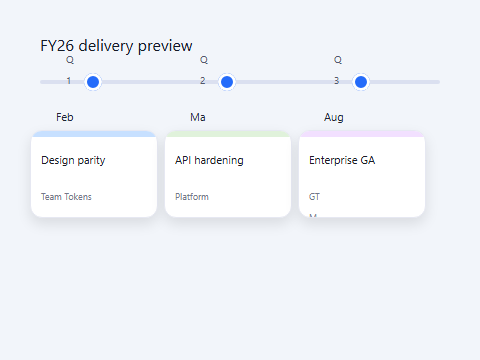
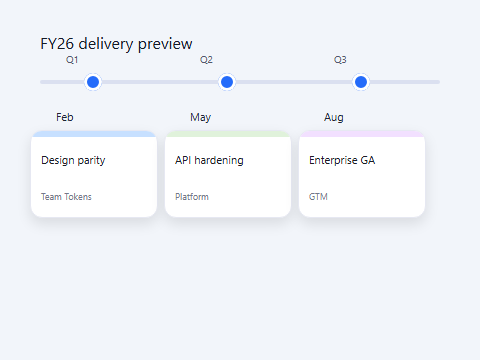
Fixes

diff --git a/libs/headless-figma-clone/src/engine/DocumentEngine.ts b/libs/headless-figma-clone/src/engine/DocumentEngine.ts
@@ -154,6 +154,53 @@ function parseTextOnPath(raw: unknown, label: string): TextNode['textOnPath'] {
   return { pathId, startOffset: raw.startOffset };
 }
 
+const TEXT_AUTO_RESIZE_VALUES = new Set(['NONE', 'WIDTH_AND_HEIGHT', 'HEIGHT', 'TRUNCATE']);
+const TEXT_TRUNCATION_VALUES = new Set(['DISABLED', 'ENDING']);
+
+function parseTextAutoResize(raw: unknown, label: string): TextNode['textAutoResize'] | undefined {
+  if (raw === undefined || raw === null) return undefined;
+  if (typeof raw !== 'string' || !TEXT_AUTO_RESIZE_VALUES.has(raw)) {
+    throw new ValidationErr('VALIDATION_ERROR', `${label} must be NONE, WIDTH_AND_HEIGHT, HEIGHT, or TRUNCATE`);
+  }
+  return raw as TextNode['textAutoResize'];
+}
+
+function parseTextTruncation(raw: unknown, label: string): TextNode['textTruncation'] | undefined {
+  if (raw === undefined || raw === null) return undefined;
+  if (typeof raw !== 'string' || !TEXT_TRUNCATION_VALUES.has(raw)) {
+    throw new ValidationErr('VALIDATION_ERROR', `${label} must be DISABLED or ENDING`);
+  }
+  return raw as TextNode['textTruncation'];
+}
+
+function parseMaxLines(raw: unknown, label: string): number | null | undefined {
+  if (raw === undefined) return undefined;
+  if (raw === null) return null;
+  if (typeof raw !== 'number' || !Number.isFinite(raw) || !Number.isInteger(raw) || raw < 1) {
+    throw new ValidationErr('VALIDATION_ERROR', `${label} must be a positive integer or null`);
+  }
+  return raw;
+}
+
+const TEXT_ALIGN_H_VALUES = new Set(['LEFT', 'CENTER', 'RIGHT', 'JUSTIFIED']);
+const TEXT_ALIGN_V_VALUES = new Set(['TOP', 'CENTER', 'BOTTOM']);
+
+function parseTextAlignHorizontal(raw: unknown, label: string): TextNode['textAlignHorizontal'] | undefined {
+  if (raw === undefined || raw === null) return undefined;
+  if (typeof raw !== 'string' || !TEXT_ALIGN_H_VALUES.has(raw)) {
+    throw new ValidationErr('VALIDATION_ERROR', `${label} must be LEFT, CENTER, RIGHT, or JUSTIFIED`);
+  }
+  return raw as TextNode['textAlignHorizontal'];
+}
+
+function parseTextAlignVertical(raw: unknown, label: string): TextNode['textAlignVertical'] | undefined {
+  if (raw === undefined || raw === null) return undefined;
+  if (typeof raw !== 'string' || !TEXT_ALIGN_V_VALUES.has(raw)) {
+    throw new ValidationErr('VALIDATION_ERROR', `${label} must be TOP, CENTER, or BOTTOM`);
+  }
+  return raw as TextNode['textAlignVertical'];
+}
+
 export function validateTransformModifiers(modifiers: unknown, label: string): TransformModifier[] {
   if (modifiers === undefined || modifiers === null) {
     throw new ValidationErr('VALIDATION_ERROR', `in ${label}: Property "modifiers" failed validation: Required value missing`);
@@ -572,6 +619,27 @@ function normalizeNewText(spec: Extract<NewNodeSpec, { type: 'TEXT' }>, id: stri
     textStyleId: spec.textStyleId,
     textOnPath,
   };
+  if (spec.textAutoResize !== undefined) {
+    const ar = parseTextAutoResize(spec.textAutoResize, 'TEXT.textAutoResize');
+    if (ar !== undefined) text.textAutoResize = ar;
+  }
+  if (spec.textTruncation !== undefined) {
+    const tr = parseTextTruncation(spec.textTruncation, 'TEXT.textTruncation');
+    if (tr !== undefined) text.textTruncation = tr;
+  }
+  if ('maxLines' in spec) {
+    const ml = parseMaxLines(spec.maxLines, 'TEXT.maxLines');
+    if (ml === undefined) delete text.maxLines;
+    else text.maxLines = ml;
+  }
+  if (spec.textAlignHorizontal !== undefined) {
+    const ha = parseTextAlignHorizontal(spec.textAlignHorizontal, 'TEXT.textAlignHorizontal');
+    if (ha !== undefined) text.textAlignHorizontal = ha;
+  }
+  if (spec.textAlignVertical !== undefined) {
+    const va = parseTextAlignVertical(spec.textAlignVertical, 'TEXT.textAlignVertical');
+    if (va !== undefined) text.textAlignVertical = va;
+  }
   validateTextGeometry(text);
   if (text.fills) text.fills = validatePaintArray(text.fills, 'fills', env) ?? [];
   if (text.effects) text.effects = validateEffects(text.effects, 'effects') ?? [];
@@ -2399,6 +2467,31 @@ function applyPatch(env: FileEnvelope, node: AnyTreeNode, patch: Record<string, 
       } else {
         t.textOnPath = parseTextOnPath(top, 'textOnPath');
       }
+    }
+    if ('textAutoResize' in patch) {
+      const ar = patch.textAutoResize;
+      if (ar === undefined || ar === null) delete t.textAutoResize;
+      else t.textAutoResize = parseTextAutoResize(ar, 'textAutoResize');
+    }
+    if ('textTruncation' in patch) {
+      const tr = patch.textTruncation;
+      if (tr === undefined || tr === null) delete t.textTruncation;
+      else t.textTruncation = parseTextTruncation(tr, 'textTruncation');
+    }
+    if ('maxLines' in patch) {
+      const ml = parseMaxLines(patch.maxLines, 'maxLines');
+      if (ml === undefined) delete t.maxLines;
+      else t.maxLines = ml;
+    }
+    if ('textAlignHorizontal' in patch) {
+      const ha = patch.textAlignHorizontal;
+      if (ha === undefined || ha === null) delete t.textAlignHorizontal;
+      else t.textAlignHorizontal = parseTextAlignHorizontal(ha, 'textAlignHorizontal');
+    }
+    if ('textAlignVertical' in patch) {
+      const va = patch.textAlignVertical;
+      if (va === undefined || va === null) delete t.textAlignVertical;
+      else t.textAlignVertical = parseTextAlignVertical(va, 'textAlignVertical');
     }
     if ('boundVariables' in patch) {
       const bv = parseBoundVariablesPatch(env, patch.boundVariables, TEXT_BIND_FIELDS, 'TEXT');

diff --git a/libs/headless-figma-clone/src/render/DesignCompiler.ts b/libs/headless-figma-clone/src/render/DesignCompiler.ts
@@ -1,5 +1,6 @@
 import {
   applyAutoLayoutIntrinsicSizingDeep,
+  hugTextLineHeightPx,
   syncHugTextLayoutMetricsDeep,
 } from './autoLayoutIntrinsicSizing.js';
 import {
@@ -232,6 +233,58 @@ function effectiveTextBase(t: TextNode, env: FileEnvelope): { fontSize: number; 
   }
   const fontSizeCss = boundFloatCss(env, t.boundVariables?.fontSize, fontSize);
   return { fontSize, fontWeight, fills, fontSizeCss };
+}
+
+/** Map Figma `textAlignVertical` / `textAlignHorizontal` to a column flex box (defaults TOP + LEFT match Figma). */
+function textFlexContainerCss(t: TextNode, ellip: boolean): string {
+  const v = t.textAlignVertical ?? 'TOP';
+  const h = t.textAlignHorizontal ?? 'LEFT';
+  const jc = v === 'CENTER' ? 'center' : v === 'BOTTOM' ? 'flex-end' : 'flex-start';
+  let ai: string;
+  if (ellip) ai = 'stretch';
+  else if (h === 'CENTER') ai = 'center';
+  else if (h === 'RIGHT') ai = 'flex-end';
+  else if (h === 'JUSTIFIED') ai = 'stretch';
+  else ai = 'flex-start';
+  return `display:flex;flex-direction:column;justify-content:${jc};align-items:${ai};min-height:0;`;
+}
+
+function textInnerHorizontalCss(t: TextNode): string {
+  const h = t.textAlignHorizontal ?? 'LEFT';
+  if (h === 'CENTER') return 'text-align:center;';
+  if (h === 'RIGHT') return 'text-align:right;';
+  if (h === 'JUSTIFIED') return 'text-align:justify;';
+  return 'text-align:left;';
+}
+
+/** Figma: fixed width + `HEIGHT` auto-resize grows vertically (wrap); single-line box height truncates horizontally. */
+function textUsesSingleLineEllipsis(t: TextNode, env: FileEnvelope): boolean {
+  if (t.textOnPath) return false;
+  if (t.characters.includes('\n')) return false;
+  if (t.textTruncation === 'DISABLED') return false;
+  if (t.textAutoResize === 'HEIGHT') return false;
+  if (t.textTruncation === 'ENDING' && t.maxLines != null && t.maxLines > 1) return false;
+  if (t.textAutoResize === 'TRUNCATE') return true;
+  if (t.textTruncation === 'ENDING' && t.maxLines === 1) return true;
+  const fs = effectiveTextBase(t, env).fontSize;
+  const cap = Math.ceil(hugTextLineHeightPx(fs) * 1.14);
+  if (!(t.height > 0 && t.height <= cap)) return false;
+  /**
+   * Implicit single-line ellipsis is for short UI labels (constrained flex titles). Long one-line copy
+   * (chart axis labels, spaced columns, etc.) must stay `pre-wrap` or most of the string disappears.
+   */
+  const chars = effectiveTextCharacters(t, env);
+  if (chars.length > 48) return false;
+  /** Captions / axis labels use smaller type; implicit ellipsis + overflow clips descenders in stacked rows. */
+  if (fs < 12) return false;
+  return true;
+}
+
+function textFlowCss(t: TextNode, env: FileEnvelope): string {
+  if (textUsesSingleLineEllipsis(t, env)) {
+    return 'white-space:nowrap;overflow:hidden;text-overflow:ellipsis;word-break:normal;overflow-wrap:normal;';
+  }
+  return 'white-space:pre-wrap;word-break:break-word;';
 }
 
 function effectiveTextCharacters(t: TextNode, env: FileEnvelope): string {
@@ -1178,11 +1231,15 @@ function emitScene(
     const pos = insideFlex
       ? sceneChildPos(t, insideFlex, absX, absY, parentFrame)
       : `position:absolute;left:${String(absX)}px;top:${String(absY)}px;width:${String(t.width)}px;height:${String(t.height)}px;`;
-    const flexTextMetrics = insideFlex ? 'line-height:1;' : '';
+    const ellip = textUsesSingleLineEllipsis(t, env);
+    const flexOuterAlign = textFlexContainerCss(t, ellip);
+    const flexTextMetrics = ellip ? 'line-height:1.15;' : 'line-height:normal;';
+    const innerRule = `${textInnerHorizontalCss(t)}${ellip ? 'min-width:0;width:100%;display:block;' : ''}`;
     htmlParts.push(`<div class="hfc-node-${t.id}" data-hfc-id="${t.id}" style="z-index:${String(zIndex)}">`);
     cssParts.push(
-      `.hfc-node-${t.id}{${pos}box-sizing:border-box;white-space:pre-wrap;word-break:break-word;${flexTextMetrics}${fontFamilyCss(t.fontName)}${opRot}${shadow}}`
+      `.hfc-node-${t.id}{${pos}box-sizing:border-box;${flexOuterAlign}${textFlowCss(t, env)}${flexTextMetrics}${fontFamilyCss(t.fontName)}${opRot}${shadow}}`
     );
+    cssParts.push(`.hfc-node-${t.id} .hfc-text-inner{${innerRule}}`);
     htmlParts.push(`<div class="hfc-text-inner">${emitTextInnerHtml(t, env, warnings)}</div></div>`);
     return;
   }

diff --git a/libs/headless-figma-clone/src/render/autoLayoutIntrinsicSizing.ts b/libs/headless-figma-clone/src/render/autoLayoutIntrinsicSizing.ts
@@ -13,7 +13,13 @@ import { resolveVariableToFloat, resolveVariableToStringValue } from '../variabl
 const FIGMA_DEFAULT_FRAME_MIN_SIDE = 100;
 
 /** Loose Inter-like advance estimate for Latin UI text (0.52 was too tight vs browser line metrics → false wraps). */
-const TEXT_WIDTH_CHAR_FACTOR = 0.58;
+const TEXT_WIDTH_CHAR_FACTOR = 0.62;
+
+/** Small horizontal slack so hugging TEXT boxes stay ≥ typical browser line width (avoids pre-wrap false wraps). */
+function approximateTextWidthPx(chars: string, fontSize: number): number {
+  const raw = chars.length * fontSize * TEXT_WIDTH_CHAR_FACTOR;
+  return Math.max(0, Math.ceil(raw) + Math.ceil(fontSize * 0.35));
+}
 
 /** Match {@link DesignCompiler} `effectiveTextBase` font-size resolution for intrinsic width/height. */
 function effectiveTextFontSizePx(t: TextNode, env: FileEnvelope | undefined): number {
@@ -27,11 +33,6 @@ function effectiveTextFontSizePx(t: TextNode, env: FileEnvelope | undefined): nu
     if (st?.fontSize !== undefined) fontSize = st.fontSize;
   }
   return fontSize;
-}
-
-function approximateTextWidthPx(chars: string, fontSize: number): number {
-  const raw = chars.length * fontSize * TEXT_WIDTH_CHAR_FACTOR;
-  return Math.max(0, Math.ceil(raw));
 }
 
 export function textCharactersForIntrinsicSizing(t: TextNode, env: FileEnvelope | undefined): string {
@@ -57,18 +58,23 @@ function textIntrinsicWidthForAutoLayout(t: TextNode, env: FileEnvelope | undefi
   return approximateTextWidthPx(textCharactersForIntrinsicSizing(t, env), fs);
 }
 
+/** One-line text box height for layout + CSS (extra px for descenders vs browser metrics). */
+export function hugTextLineHeightPx(fontSize: number): number {
+  return Math.max(0, Math.ceil(fontSize * 1.22) + 2);
+}
+
 function textIntrinsicHeightForAutoLayout(t: TextNode, env: FileEnvelope | undefined): number {
   const fs = effectiveTextFontSizePx(t, env);
   if (t.layoutSizingVertical === 'FIXED') {
     return Math.max(0, t.height);
   }
   if (t.layoutSizingVertical === 'HUG' || t.layoutSizingVertical === 'FILL') {
-    return Math.max(0, fs);
+    return hugTextLineHeightPx(fs);
   }
   if (typeof t.height === 'number' && t.height > 0) {
     return Math.max(0, t.height);
   }
-  return Math.max(0, fs);
+  return hugTextLineHeightPx(fs);
 }
 
 function padX(f: FrameNode): number {
@@ -298,7 +304,8 @@ export function syncHugTextLayoutMetricsDeep(n: SceneNode, env?: FileEnvelope): 
     t.width = approximateTextWidthPx(textCharactersForIntrinsicSizing(t, env), fs);
   }
   if (needsIntrinsicH) {
-    t.height = Math.max(0, effectiveTextFontSizePx(t, env));
+    const fs = effectiveTextFontSizePx(t, env);
+    t.height = hugTextLineHeightPx(fs);
   }
 }
 

diff --git a/libs/headless-figma-clone/tests/compiler/scenario-102-analytics-foot-visible.test.ts b/libs/headless-figma-clone/tests/compiler/scenario-102-analytics-foot-visible.test.ts
@@ -1,0 +1,39 @@
+import { readFileSync } from 'node:fs';
+import { dirname, join } from 'node:path';
+import { fileURLToPath } from 'node:url';
+import { describe, expect, it } from 'vitest';
+import { applyEngineOp, DocumentEngine } from '../../src/engine/DocumentEngine.js';
+import { runUseFigmaScript } from '../../src/mcp/useFigmaScript.js';
+import { JsonPersistence } from '../../src/persistence/JsonPersistence.js';
+import { designCompiler } from '../../src/render/DesignCompiler.js';
+import { createConsoleLogger } from '../../src/util/logger.js';
+
+const scenariosDir = join(dirname(fileURLToPath(import.meta.url)), '../../verification/scenarios');
+
+describe('scenario 102 analytics KPI strip', () => {
+  it('compiled HTML includes weekday axis copy (long single-line must not use implicit ellipsis)', async () => {
+    const engine = new DocumentEngine({
+      persistence: new JsonPersistence(),
+      logger: createConsoleLogger('error'),
+    });
+    await engine.createEmptyFile({ fileName: 'T' });
+    const code = readFileSync(join(scenariosDir, '102-analytics-kpi-strip/script.js'), 'utf8');
+    const run = await runUseFigmaScript(code, engine);
+    expect(run.kind).toBe('ok');
+    if (run.kind !== 'ok') return;
+
+    const env = structuredClone(engine.getActiveFile()!);
+    for (const op of run.operations) applyEngineOp(env, op);
+
+    const rootId = (run.result as { rootId: string }).rootId;
+    const out = designCompiler.compileSubtree({
+      envelope: env,
+      rootNodeId: rootId,
+      options: { viewportPaddingPx: 0, includeCss: true, inlineCss: true },
+    });
+
+    expect(out.html).toContain('Mon');
+    expect(out.html).toContain('Sun');
+    expect(out.html).toContain('Engagement Index');
+  });
+});

diff --git a/libs/headless-figma-clone/src/model/types.ts b/libs/headless-figma-clone/src/model/types.ts
@@ -341,6 +341,25 @@ export interface TextNode extends NodeBase, LayoutSelfFields {
    * @see Figma Plugin API — `TextNode.textOnPath`.
    */
   textOnPath?: { pathId: string; startOffset?: number };
+  /**
+   * Figma `TextNode.textAutoResize`. `HEIGHT` = fixed width, grow vertically (wrap); `TRUNCATE` is legacy.
+   * @see Figma Plugin API — `TextNode.textAutoResize`.
+   */
+  textAutoResize?: 'NONE' | 'WIDTH_AND_HEIGHT' | 'HEIGHT' | 'TRUNCATE';
+  /** When `ENDING`, overflowing text uses an ellipsis (see `maxLines`). */
+  textTruncation?: 'DISABLED' | 'ENDING';
+  /** Only applies with `textTruncation: 'ENDING'`. */
+  maxLines?: number | null;
+  /**
+   * Figma `TextNode.textAlignHorizontal`. Omitted = Figma default `LEFT`.
+   * @see Figma Plugin API — `TextNode.textAlignHorizontal`.
+   */
+  textAlignHorizontal?: 'LEFT' | 'CENTER' | 'RIGHT' | 'JUSTIFIED';
+  /**
+   * Figma `TextNode.textAlignVertical`. Omitted = Figma default `TOP`.
+   * @see Figma Plugin API — `TextNode.textAlignVertical`.
+   */
+  textAlignVertical?: 'TOP' | 'CENTER' | 'BOTTOM';
   /** Phase 8 — `fontSize` → FLOAT variable; `characters` → STRING variable. */
   boundVariables?: TextVariableBindings;
 }

diff --git a/libs/headless-figma-clone/tests/compiler/scenario-48-nav-bar.test.ts b/libs/headless-figma-clone/tests/compiler/scenario-48-nav-bar.test.ts
@@ -55,7 +55,7 @@ describe('scenario 48 nav bar composite compile', () => {
       expect(bundle).toContain(`hfc-node-${links.id}`);
       expect(bundle).toMatch(new RegExp(`\\.hfc-node-${links.id}\\{[^}]*flex:0 0 auto`));
       expect(bundle).toMatch(new RegExp(`\\.hfc-node-${links.id}\\{[^}]*height:auto`));
-      expect(bundle).toMatch(new RegExp(`\\.hfc-node-${links.id}\\{[^}]*line-height:1`));
+      expect(bundle).toMatch(new RegExp(`\\.hfc-node-${links.id}\\{[^}]*line-height:(normal|1|1\\.15);`));
       expect(bundle).not.toMatch(new RegExp(`\\.hfc-node-${links.id}\\{[^}]*flex:1 1`));
       expect(bundle).not.toMatch(new RegExp(`\\.hfc-node-${links.id}\\{[^}]*width:200px`));
     } finally {

diff --git a/libs/headless-figma-clone/tests/mcp/scenario-44-component-instance.compile.test.ts b/libs/headless-figma-clone/tests/mcp/scenario-44-component-instance.compile.test.ts
@@ -49,7 +49,8 @@ describe('scenario 44 component instance compile', () => {
     const close = out.html.indexOf('}', open);
     const rule = out.html.slice(open, close + 1);
     expect(rule).toMatch(/width:([1-9][0-9]+)px/);
-    expect(rule).toMatch(/height:14px/);
+    /** Hugging TEXT height uses hugTextLineHeightPx (14px label → 20px with descender slack). */
+    expect(rule).toMatch(/height:20px/);
     expect(rule).not.toContain('width:0px');
   });
 });

diff --git a/libs/headless-figma-clone/verification/scenarios/102-analytics-kpi-strip/script.js b/libs/headless-figma-clone/verification/scenarios/102-analytics-kpi-strip/script.js
@@ -99,7 +99,7 @@ chartShell.fills = [{ type: 'SOLID', color: { r: 1, g: 1, b: 1 } }];
 chartShell.strokes = [{ type: 'SOLID', color: { r: 0.88, g: 0.9, b: 0.94 } }];
 chartShell.strokeWeight = 1;
 const capT = figma.createText();
-capT.characters = 'Engagement index';
+capT.characters = 'Engagement Index';
 capT.fontSize = 12;
 capT.fills = [{ type: 'SOLID', color: { r: 0.22, g: 0.24, b: 0.3 } }];
 chartShell.appendChild(capT);

diff --git a/libs/headless-figma-clone/tests/layout/autolayout.constraints.test.ts b/libs/headless-figma-clone/tests/layout/autolayout.constraints.test.ts
@@ -22,6 +22,6 @@ describe('autolayout constraints (flex child)', () => {
       rootNodeId: frame.id,
       options: { viewportPaddingPx: 0, includeCss: true, inlineCss: true },
     });
-    expect(out.html).toContain('flex:2 1 auto');
+    expect(out.html).toContain('flex:2 0 auto');
   });
 });

diff --git a/libs/headless-figma-clone/src/engine/phase-matrix.ts b/libs/headless-figma-clone/src/engine/phase-matrix.ts
@@ -114,6 +114,11 @@ export const ENGINE_MATRIX = {
       'effects',
       'textStyleId',
       'textOnPath',
+      'textAutoResize',
+      'textTruncation',
+      'maxLines',
+      'textAlignHorizontal',
+      'textAlignVertical',
       'boundVariables',
     ]),
     RECTANGLE: new Set([
